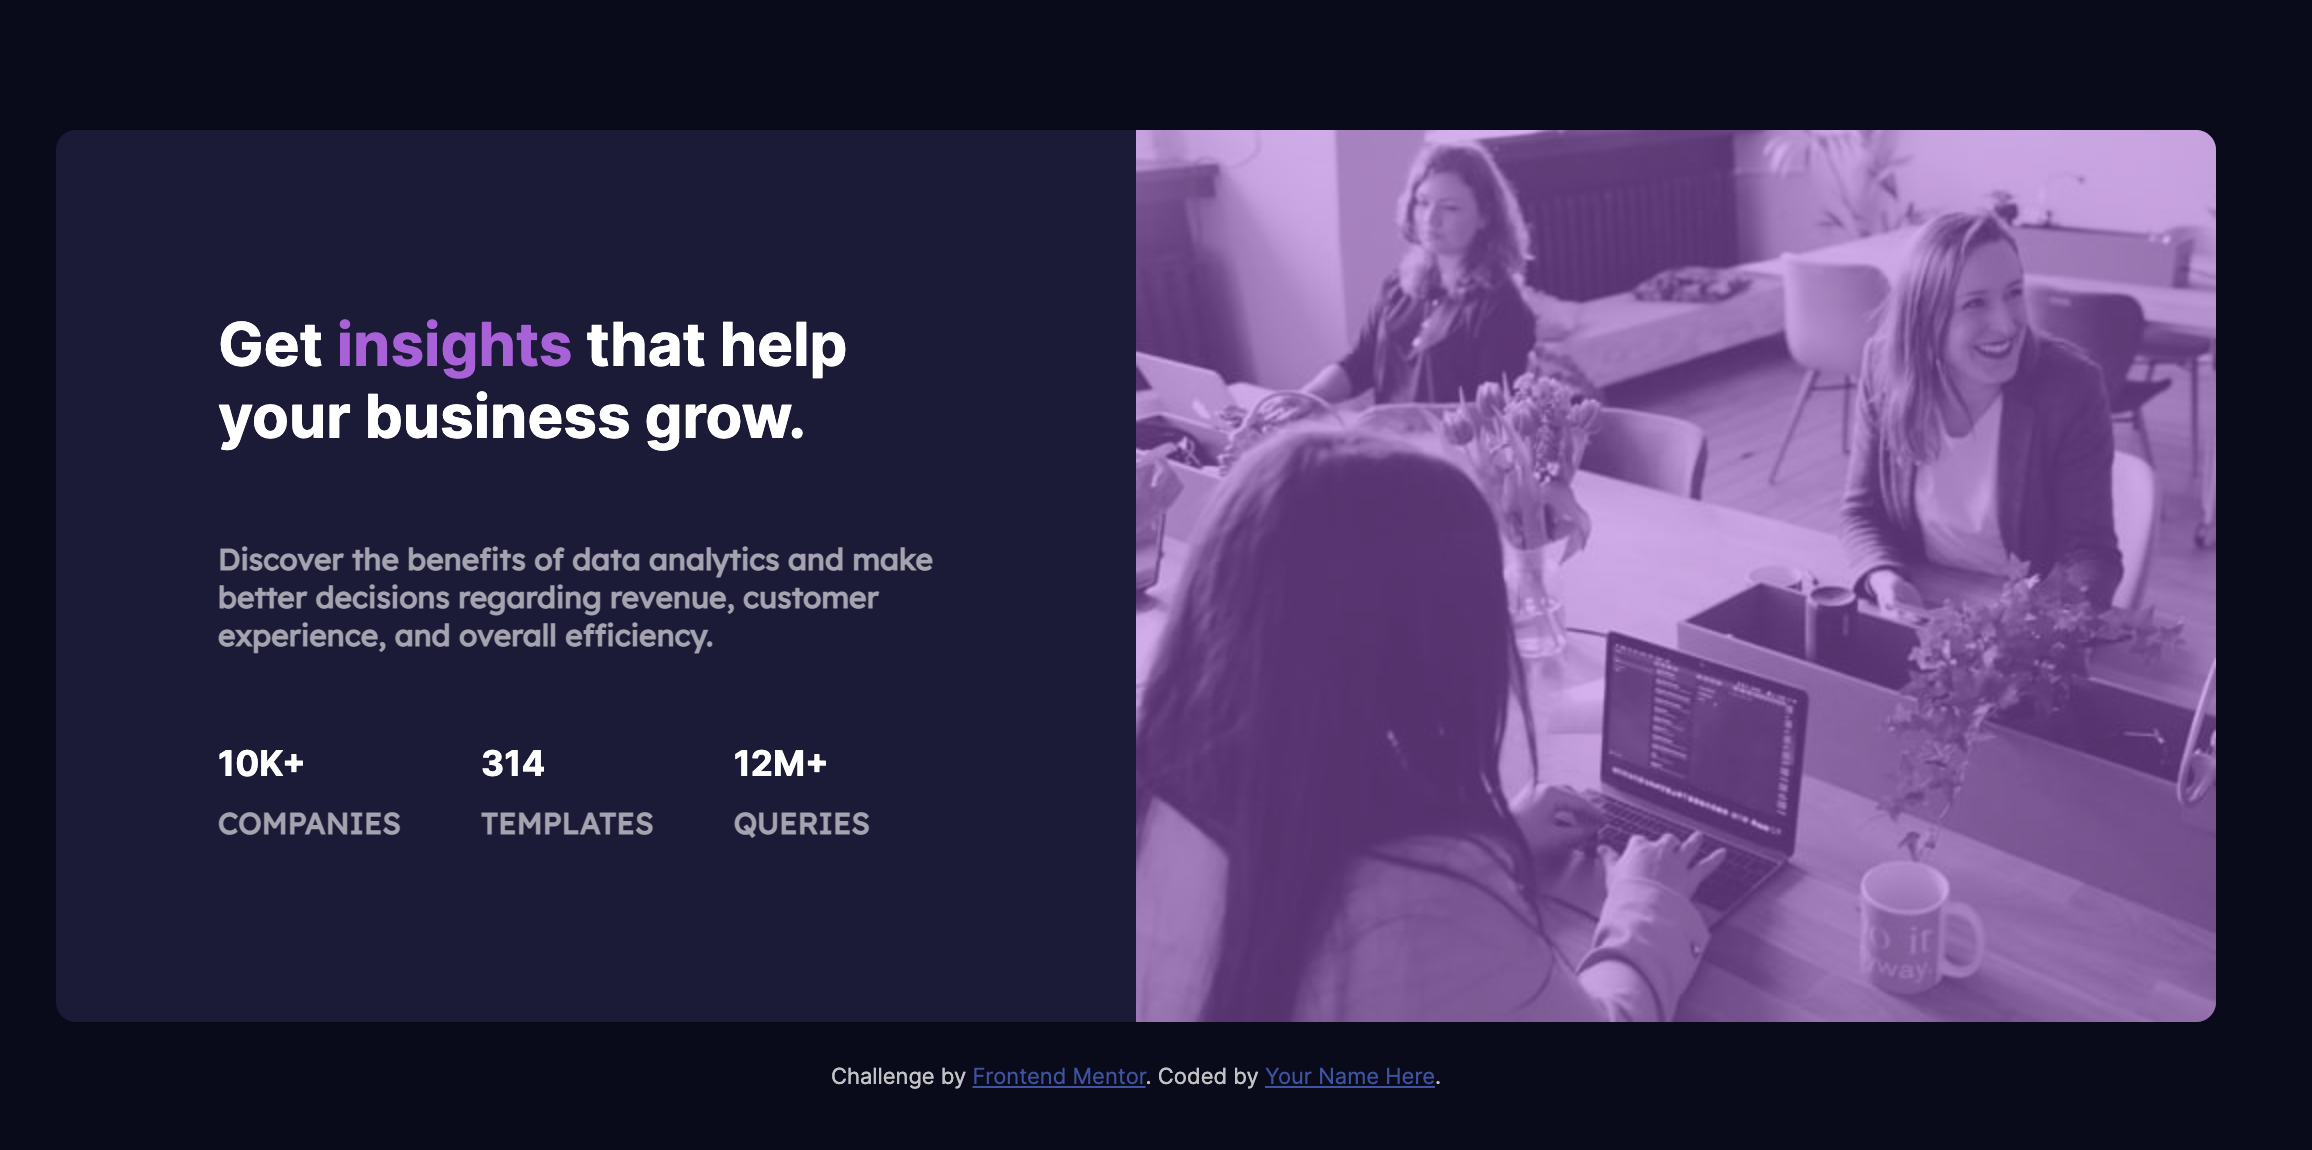
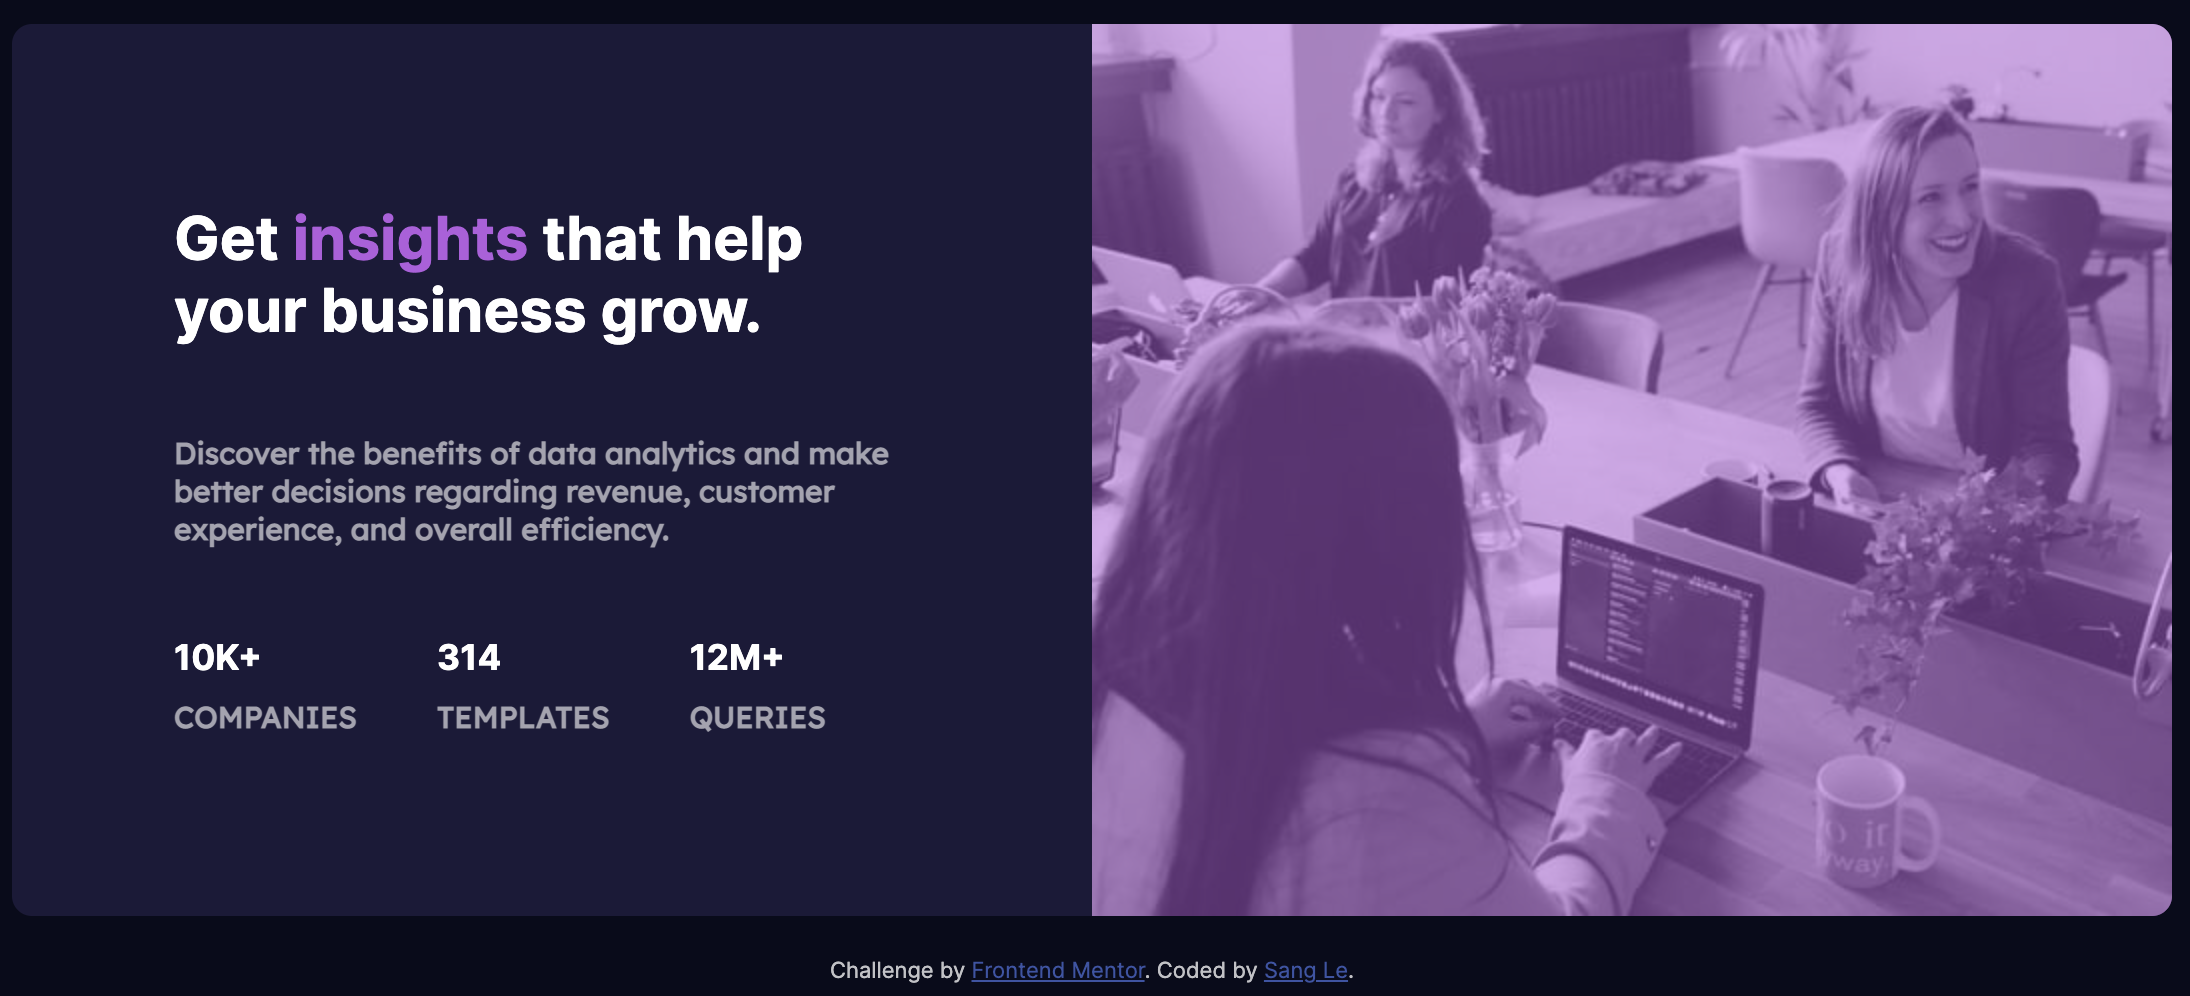
change screenshot

diff --git a/index.html b/index.html
@@ -59,7 +59,7 @@
 
     <div class="attribution">
       <p>Challenge by <a href="https://www.frontendmentor.io?ref=challenge" target="_blank">Frontend Mentor</a>.
-        Coded by <a href="#">Your Name Here</a>.</p>
+        Coded by <a href="#">Sang Le</a>.</p>
     </div>
   </body>
 
